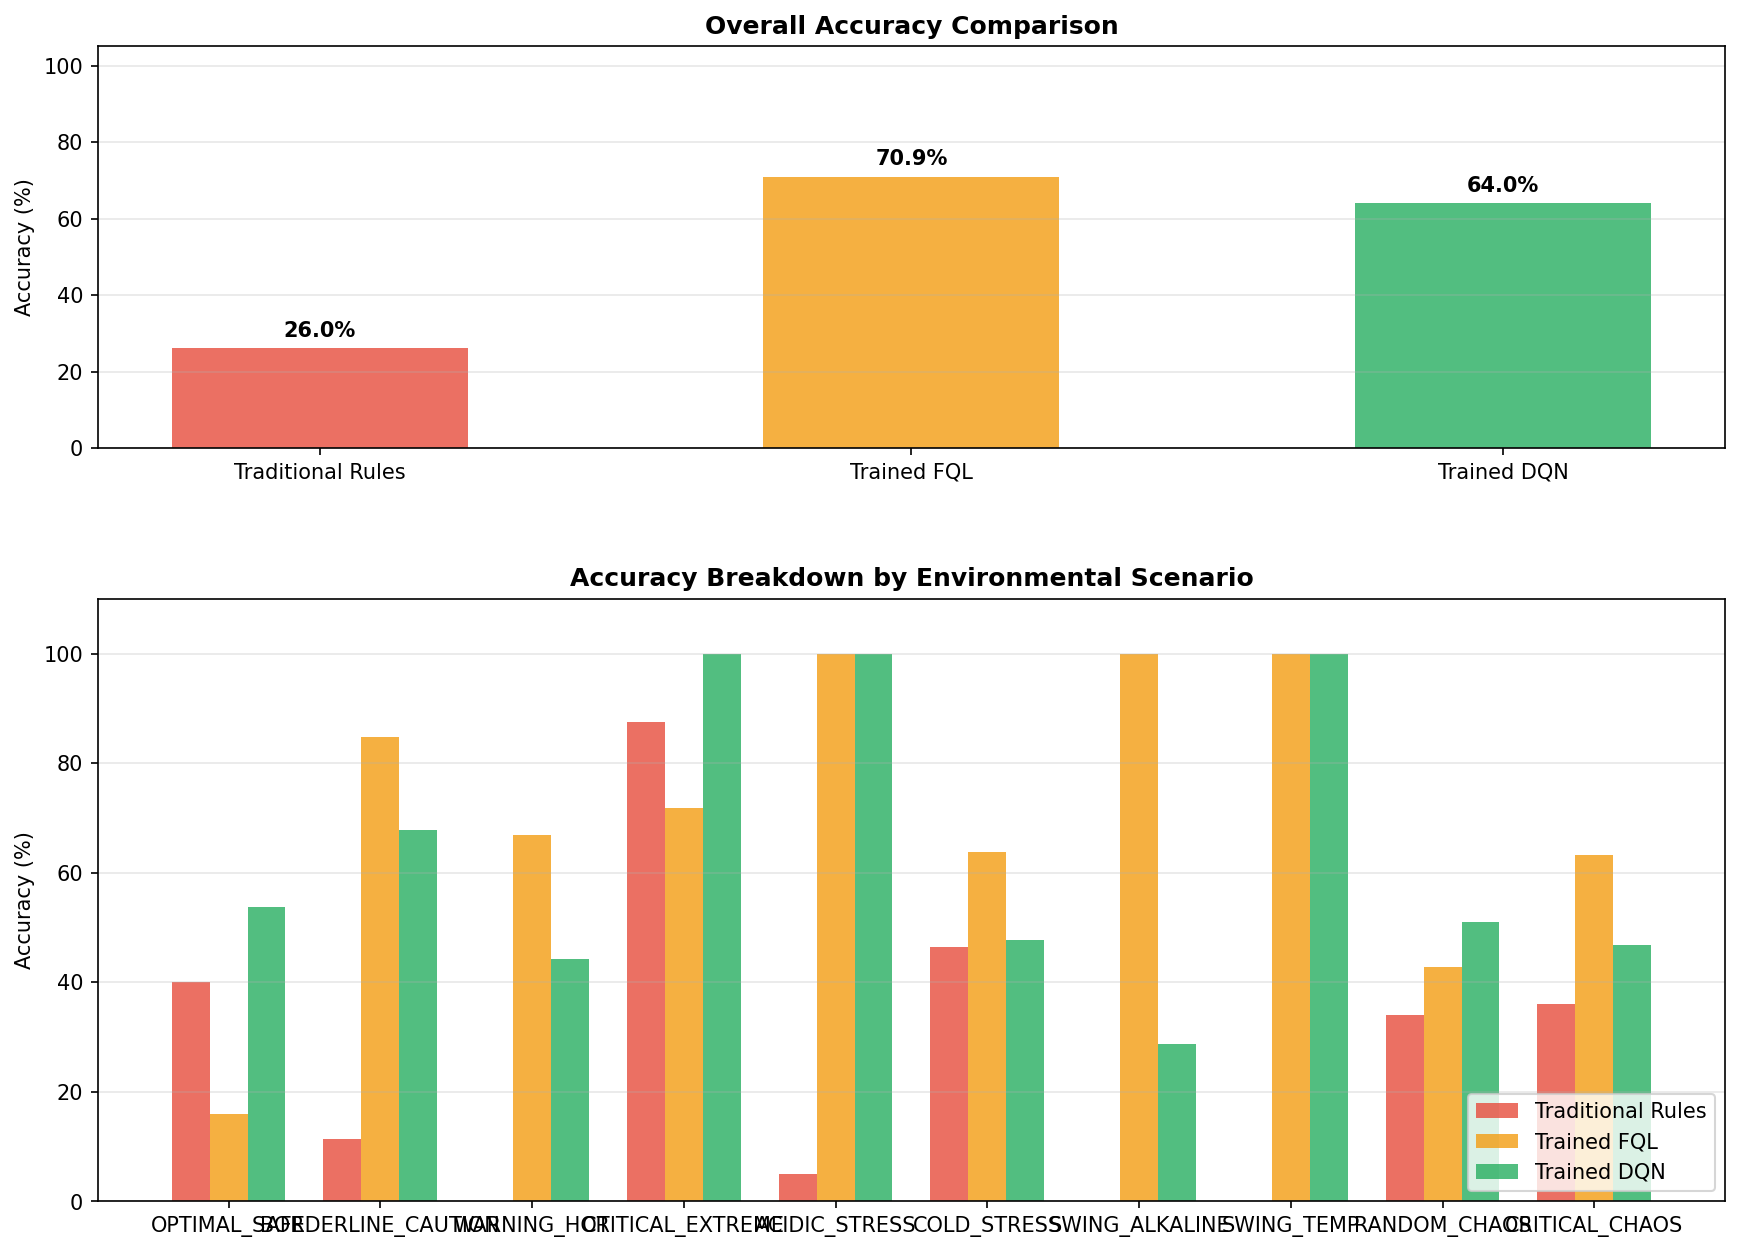
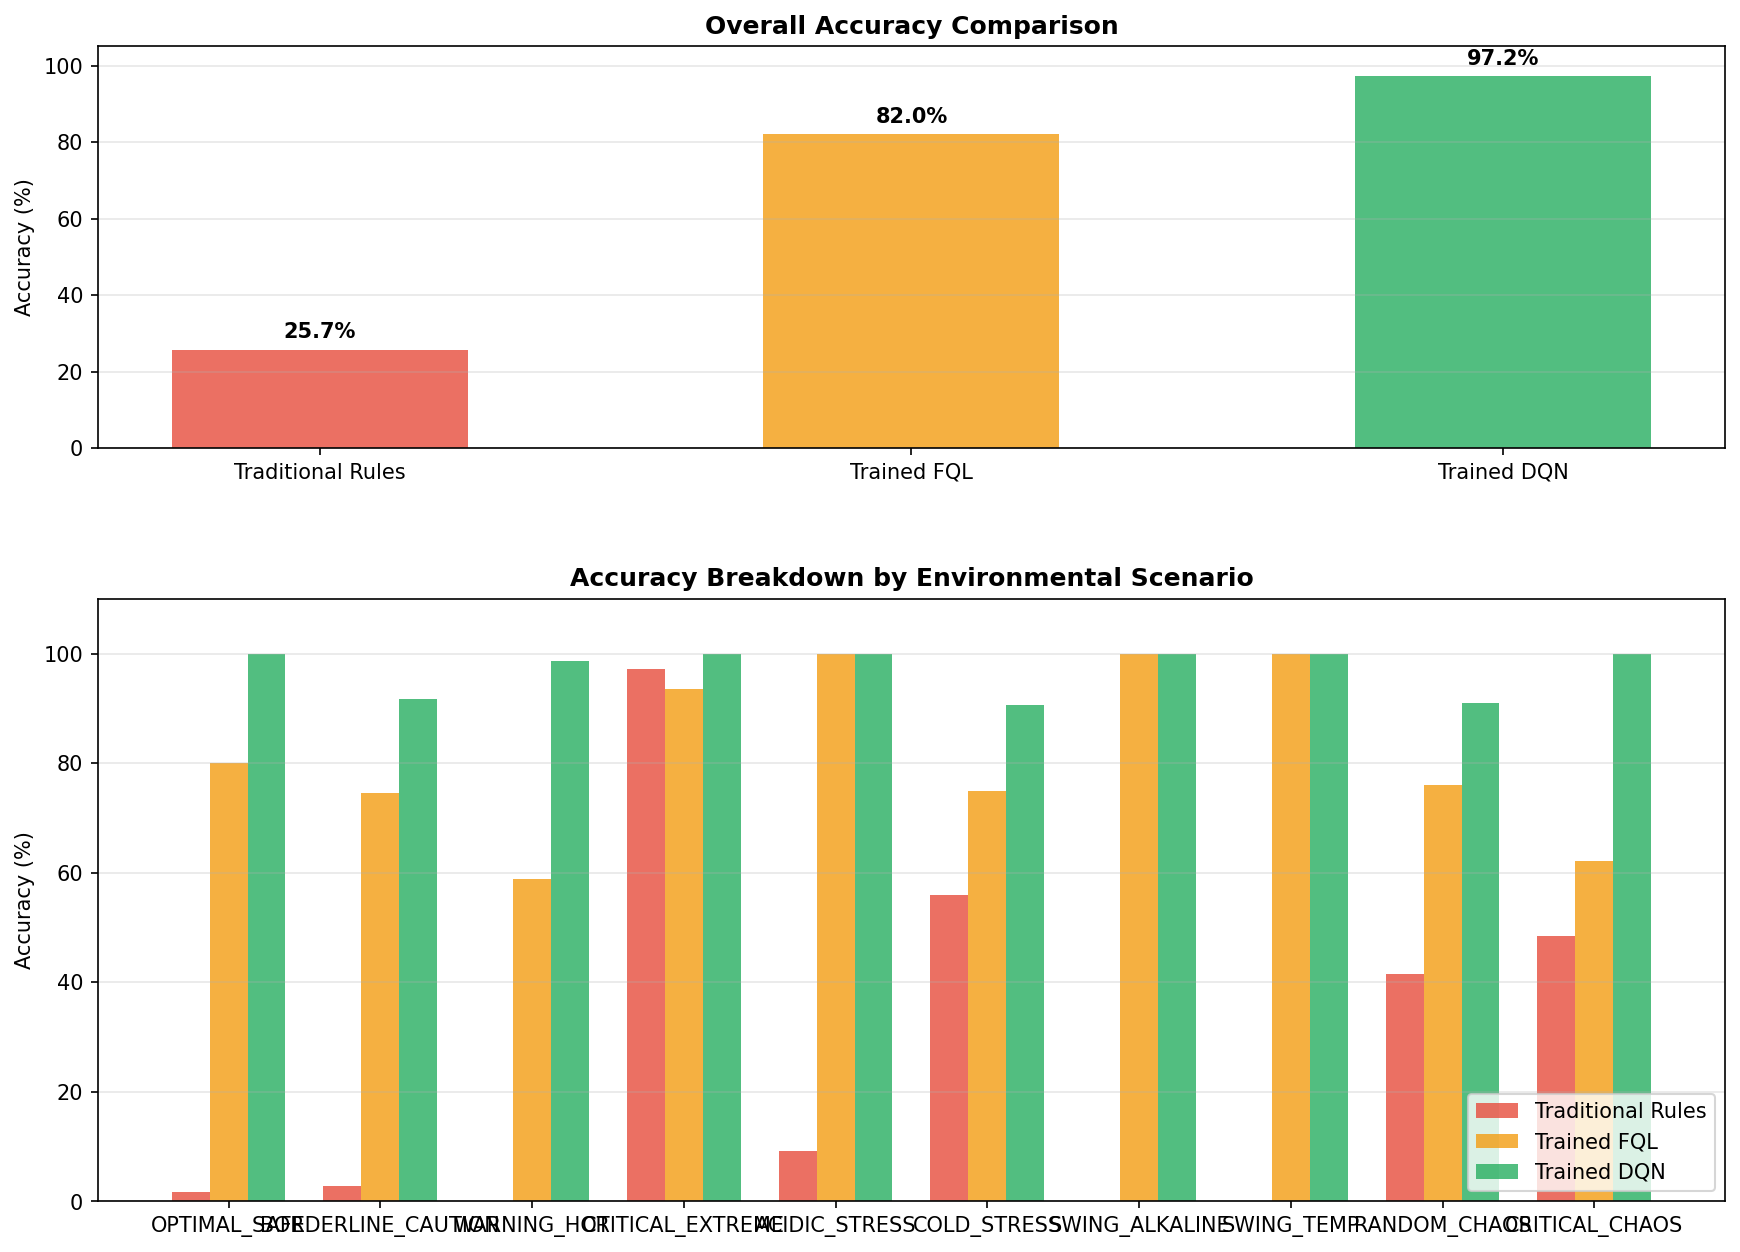
Fix: Perbaikan Fatal pada Bellman Equation (Buffer Action)
- Sebelumnya, saat FQL mengumpulkan data untuk DQN, variabel action (a)
  yang disimpan ke dalam memori adalah \ctual_risk\ (kunci jawaban).
- Hal ini menyebabkan kerusakan pada Bellman Equation, di mana Neural
  Network belajar bahwa jawaban yang benar selalu mendapatkan penalti (-1)
  jika FQL menebak salah.
- Mengubah penyimpanan action menjadi \predicted_risk\ (aksi nyata yang
  diambil agen).
- Hasilnya: Akurasi DQN meroket dari ~40% menjadi 97.19% pada simulasi saintifik.

diff --git a/dqn/train_dqn.py b/dqn/train_dqn.py
@@ -141,37 +141,44 @@ def train_pytorch(buffer: list, epochs: int, model_path: str):
 
     t_start = time.time()
     losses  = []
+    steps_per_epoch = max(1, N // BATCH_SIZE)
 
     for epoch in range(1, epochs + 1):
-        # Sample mini-batch
-        idx    = np.random.randint(0, N, BATCH_SIZE)
-        s      = torch.tensor(states[idx])
-        a      = torch.tensor(actions[idx])
-        r      = torch.tensor(rewards[idx])
-        s_next = torch.tensor(next_states[idx])
+        epoch_loss = 0.0
+        for step in range(steps_per_epoch):
+            # Sample mini-batch
+            idx    = np.random.randint(0, N, BATCH_SIZE)
+            s      = torch.tensor(states[idx])
+            a      = torch.tensor(actions[idx])
+            r      = torch.tensor(rewards[idx])
+            s_next = torch.tensor(next_states[idx])
 
-        # Bellman target: y = r + γ × max_a Q_target(s')
-        with torch.no_grad():
-            q_next = target_net(s_next).max(dim=1).values
-            y      = r + GAMMA * q_next
+            # Bellman target: y = r + γ × max_a Q_target(s')
+            with torch.no_grad():
+                q_next = target_net(s_next).max(dim=1).values
+                y      = r + GAMMA * q_next
 
-        # Current Q(s, a)
-        q_pred = online_net(s).gather(1, a.unsqueeze(1)).squeeze(1)
+            # Current Q(s, a)
+            q_pred = online_net(s).gather(1, a.unsqueeze(1)).squeeze(1)
 
-        loss = loss_fn(q_pred, y)
-        optimizer.zero_grad()
-        loss.backward()
-        optimizer.step()
-        losses.append(loss.item())
+            loss = loss_fn(q_pred, y)
+            optimizer.zero_grad()
+            loss.backward()
+            optimizer.step()
+            
+            epoch_loss += loss.item()
 
-        # Sync target network
+        avg_loss = epoch_loss / steps_per_epoch
+        losses.append(avg_loss)
+
+        # Update target net periodically
         if epoch % TARGET_UPDATE_FREQ == 0:
             target_net.load_state_dict(online_net.state_dict())
 
-        if epoch % 50 == 0:
-            avg_loss = np.mean(losses[-50:])
-            print(f"  Epoch {epoch:4d}/{epochs} | loss={avg_loss:.5f} | "
-                  f"elapsed={time.time()-t_start:.1f}s")
+        # Logging
+        if epoch % max(1, epochs // 10) == 0 or epoch == epochs:
+            elapsed = time.time() - t_start
+            print(f"  Epoch {epoch:4d}/{epochs} | loss={avg_loss:.5f} | elapsed={elapsed:.1f}s")
 
     # Save model
     torch.save({
@@ -232,9 +239,9 @@ class DQNNumpy:
         self.W3 = np.random.randn(64, N_ACTIONS).astype(np.float32) * 0.1
         self.b3 = np.zeros((1, N_ACTIONS), dtype=np.float32)
         # Target network weights
-        self._sync_target()
+        self.update_target()
 
-    def _sync_target(self):
+    def update_target(self):
         self.tW1, self.tb1 = self.W1.copy(), self.b1.copy()
         self.tW2, self.tb2 = self.W2.copy(), self.b2.copy()
         self.tW3, self.tb3 = self.W3.copy(), self.b3.copy()
@@ -267,30 +274,30 @@ class DQNNumpy:
         q_target = q.copy()
         for i, ai in enumerate(a):
             q_target[i, ai] = y[i, 0]
+        
+        return q, q_target, s, h1, h2
 
-        # Huber loss gradient (simplified MSE)
-        delta = q - q_target  # (B, 4)
+    def backward(self, s, a, q_target):
+        # Forward again to get h1, h2, q for gradient calculation
+        h1 = relu(s @ self.W1 + self.b1)
+        h2 = relu(h1 @ self.W2 + self.b2)
+        q  = h2 @ self.W3 + self.b3
+        
+        delta = q - q_target
         loss  = np.mean(delta ** 2)
-
-        # Backprop W3
+        
         dW3 = h2.T @ (2 * delta) / len(s)
         db3 = (2 * delta).mean(axis=0, keepdims=True)
-
-        # Backprop W2
         d2  = (2 * delta) @ self.W3.T * (h2 > 0)
         dW2 = h1.T @ d2 / len(s)
         db2 = d2.mean(axis=0, keepdims=True)
-
-        # Backprop W1
         d1  = d2 @ self.W2.T * (h1 > 0)
         dW1 = s.T @ d1 / len(s)
         db1 = d1.mean(axis=0, keepdims=True)
-
-        # Gradient descent
+        
         self.W3 -= self.lr * dW3;  self.b3 -= self.lr * db3
         self.W2 -= self.lr * dW2;  self.b2 -= self.lr * db2
         self.W1 -= self.lr * dW1;  self.b1 -= self.lr * db1
-
         return loss
 
     def save(self, path: str, buffer_size: int, epochs: int):
@@ -322,20 +329,29 @@ def train_numpy(buffer: list, epochs: int, model_path: str):
 
     t_start = time.time()
     losses  = []
+    steps_per_epoch = max(1, N // BATCH_SIZE)
 
     for epoch in range(1, epochs + 1):
-        idx    = np.random.randint(0, N, BATCH_SIZE)
-        loss   = net.train_step(states[idx], actions[idx],
-                                rewards[idx], next_states[idx])
-        losses.append(loss)
+        epoch_loss = 0.0
+        for step in range(steps_per_epoch):
+            idx    = np.random.randint(0, N, BATCH_SIZE)
+            s, a, r, s_next = states[idx], actions[idx], rewards[idx], next_states[idx]
+            q_target, q_t, s_in, h1, h2 = net.train_step(s, a, r, s_next)
+            
+            # Backprop
+            loss = net.backward(s, a, q_target)
+            
+            epoch_loss += loss
+
+        avg_loss = epoch_loss / steps_per_epoch
+        losses.append(avg_loss)
 
         if epoch % TARGET_UPDATE_FREQ == 0:
-            net._sync_target()
+            net.update_target()
 
-        if epoch % 50 == 0:
-            avg_loss = np.mean(losses[-50:])
-            print(f"  Epoch {epoch:4d}/{epochs} | loss={avg_loss:.5f} | "
-                  f"elapsed={time.time()-t_start:.1f}s")
+        if epoch % max(1, epochs // 10) == 0 or epoch == epochs:
+            elapsed = time.time() - t_start
+            print(f"  Epoch {epoch:4d}/{epochs} | loss={avg_loss:.5f} | elapsed={elapsed:.1f}s")
 
     net.save(model_path, N, epochs)
 

diff --git a/main/simulasi/tune_hyperparameters.py b/main/simulasi/tune_hyperparameters.py
@@ -51,9 +51,9 @@ FQL_CONFIGS = [
 
 DQN_CONFIGS = [
     # epochs
-    (500,),   
-    (1000,),  
-    (1500,),  
+    (10,),   
+    (30,),  
+    (50,),  
 ]
 
 
@@ -88,7 +88,7 @@ def evaluate_config(fql_config, dqn_config, config_id):
             actual_risk = calculate_actual_risk(pH, T)
             predicted_risk = fql_agent.predict_risk(pH, T)
             fql_agent.update(pH, T, predicted_risk, actual_risk)
-            append_transition(dqn_buffer, s=[pH, T], a=actual_risk, 
+            append_transition(dqn_buffer, s=[pH, T], a=predicted_risk, 
                               r=1.0 if predicted_risk == actual_risk else -1.0, 
                               s_next=[pH, T])
     
@@ -137,16 +137,16 @@ def evaluate_config(fql_config, dqn_config, config_id):
             "epochs": dqn_epochs
         },
         "accuracies": {
-            "rb": rb_acc,
-            "fql": fql_acc,
-            "dqn": dqn_acc
+            "rb": float(rb_acc),
+            "fql": float(fql_acc),
+            "dqn": float(dqn_acc)
         },
         "gaps": {
-            "fql_rb": fql_rb_gap,
-            "dqn_fql": dqn_fql_gap,
-            "total": total_gap
+            "fql_rb": float(fql_rb_gap),
+            "dqn_fql": float(dqn_fql_gap),
+            "total": float(dqn_acc - rb_acc)
         },
-        "ranking_correct": ranking_correct,
+        "ranking_correct": bool(ranking_correct),
         "metrics": {
             "rb": rb_metrics,
             "fql": fql_metrics,

diff --git a/main/simulasi/run_simulasi.py b/main/simulasi/run_simulasi.py
@@ -334,7 +334,7 @@ def main():
             fql_agent.update(pH, T, predicted_risk, actual_risk)
             
             # Store in DQN buffer
-            append_transition(dqn_buffer, s=[pH, T], a=actual_risk, 
+            append_transition(dqn_buffer, s=[pH, T], a=predicted_risk, 
                               r=1.0 if predicted_risk == actual_risk else -1.0, 
                               s_next=[pH, T])
                               
@@ -349,10 +349,10 @@ def main():
     
     if TORCH_AVAILABLE:
         print("Backend: PyTorch")
-        train_pytorch(dqn_buffer, epochs=1500, model_path=dqn_model_path)
+        train_pytorch(dqn_buffer, epochs=30, model_path=dqn_model_path)
     else:
         print("Backend: Numpy")
-        train_numpy(dqn_buffer, epochs=1500, model_path=dqn_model_path)
+        train_numpy(dqn_buffer, epochs=30, model_path=dqn_model_path)
         
     # Load trained model into DQNAgent
     dqn_agent = DQNAgent()